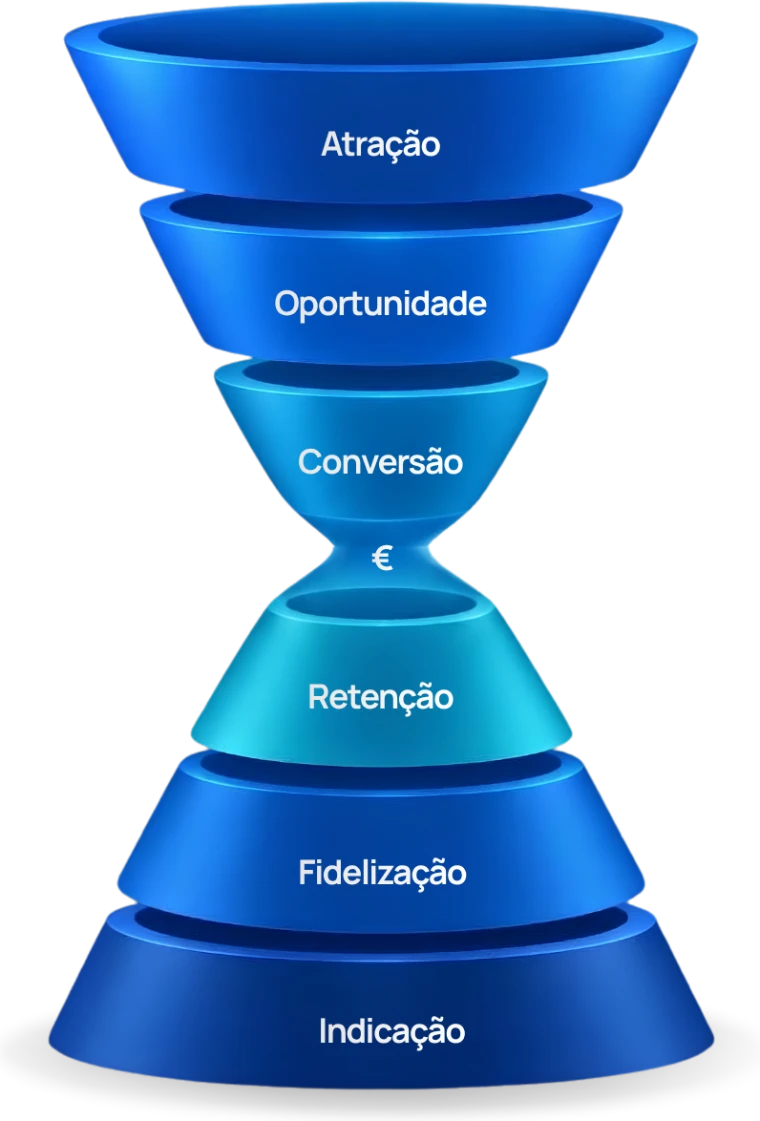
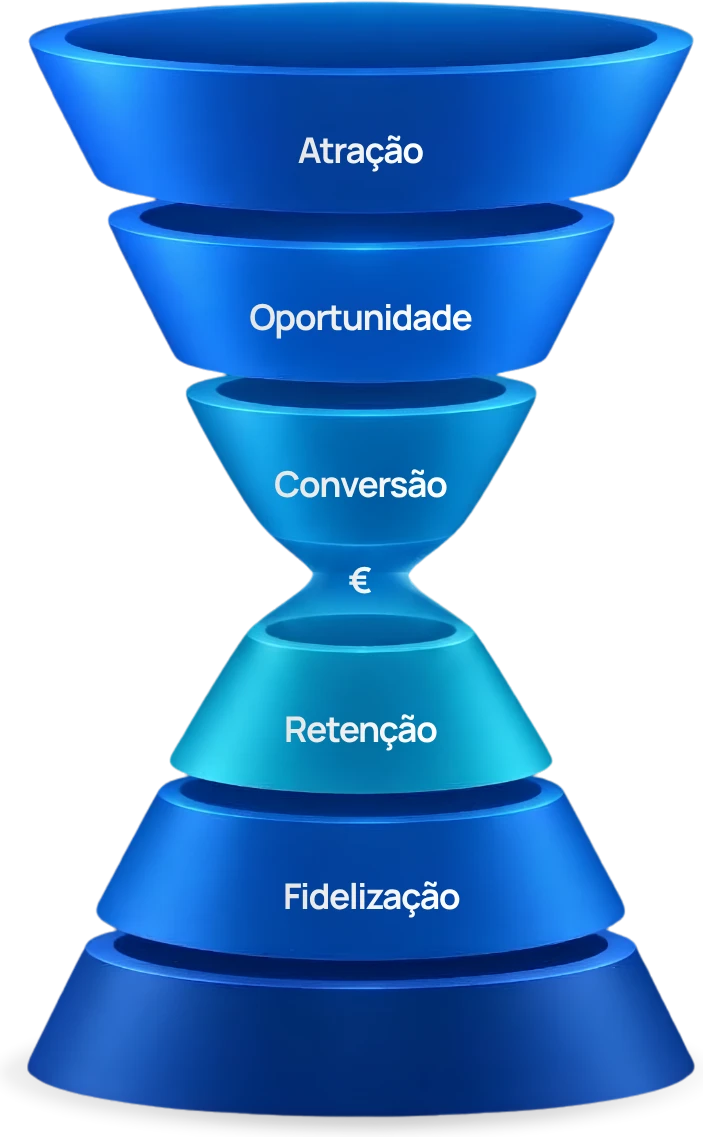
Nova ampulheta e alinhar o título dos testemunhos com os outros
A ampulheta é a nova. Já vinha com fundo transparente: recortada a margem
vazia fica a 703×1137, acima do dobro dos ~340 a que aparece. Em webp com
alfa passa de 770KB a 73KB. Os atributos width/height acompanham a nova
proporção, para não haver salto de layout.

O título dos testemunhos estava fora do padrão — escrevi-o de raiz quando
acrescentei a secção. Tinha peso 400 contra os 600 dos outros, -.035em de
espaçamento contra -.06em, e 3,1vw contra 2,8vw, o que o fazia maior do
que os restantes entre os 1024 e os 1366px. Passa a ter a mesma receita.

Claude-Session: https://claude.ai/code/session_01Mu33bMyEqagxHRUAWVWLMU

Changed region(s): [[0.0299, 0.0, 0.9858, 0.9991], [0.4182, 0.9054, 0.6273, 0.9367], [0.1792, 0.7181, 0.2091, 0.7493]]

diff --git a/lp-v2/index.html b/lp-v2/index.html
@@ -2409,12 +2409,16 @@ a{text-decoration:none;color:inherit}
 .tst-inner{ max-width:1120px;margin-inline:auto;padding-inline:clamp(1.25rem,4vw,2.5rem); }
 .tst-head{ text-align:center;margin-bottom:clamp(2.5rem,5vw,4rem); }
 .tst-section .quem-eyebrow{ color:#005da9; }
+/* Escrevi este titulo de raiz quando acrescentei a seccao, e ficou fora
+   do padrao: peso 400 contra 600, -.035em de espacamento contra -.06em, e
+   3,1vw contra 2,8vw — o que o fazia maior do que os outros entre os 1024
+   e os 1366. Passa a ter a mesma receita dos restantes. */
 .tst-h2{
   font-family:'Archia',sans-serif;
-  font-size:clamp(26px,3.1vw,40px);
-  font-weight:400;
-  letter-spacing:-.035em;
-  line-height:1.14;
+  font-size:clamp(22px,2.8vw,40px);
+  font-weight:600;
+  letter-spacing:-.06em;
+  line-height:1.15;
   width:var(--medida-titulo);
   margin-inline:calc(50% - var(--medida-titulo) / 2);
   text-wrap:pretty;
@@ -2956,7 +2960,7 @@ a{text-decoration:none;color:inherit}
     </div>
 
     <div class="funil" data-reveal="fade">
-      <figure class="funil-fig"><img class="funil-img" src="img/funil-canva.webp" width="760" height="1121" alt="Funil em ampulheta da Blue Bolt: atração, oportunidade e conversão estreitam até à venda; retenção, fidelização e indicação alargam depois dela" loading="lazy" decoding="async"></figure>
+      <figure class="funil-fig"><img class="funil-img" src="img/funil-canva.webp" width="703" height="1137" alt="Funil em ampulheta da Blue Bolt: atração, oportunidade e conversão estreitam até à venda; retenção, fidelização e indicação alargam depois dela" loading="lazy" decoding="async"></figure>
       <ol class="funil-passos"><li class="passo" style="--i:0;--cor:#1B7BE8"><span class="passo-n">01</span><span class="passo-txt"><strong>Atração</strong>Campanhas em Meta e Google Ads que trazem o perfil certo, não só volume.</span></li><li class="passo" style="--i:1;--cor:#0E86F0"><span class="passo-n">02</span><span class="passo-txt"><strong>Oportunidade</strong>Fluxos de email e WhatsApp que aquecem a lead antes do contacto comercial.</span></li><li class="passo" style="--i:2;--cor:#12A3DE"><span class="passo-n">03</span><span class="passo-txt"><strong>Conversão</strong>Scripts, playbook e CRM para não se perder nenhuma oportunidade pelo caminho.</span></li><li class="passo" style="--i:3;--cor:#1AB9D6"><span class="passo-n">04</span><span class="passo-txt"><strong>Retenção</strong>Acompanhamento depois da venda, para o cliente voltar a comprar.</span></li><li class="passo" style="--i:4;--cor:#0E6FD6"><span class="passo-n">05</span><span class="passo-txt"><strong>Fidelização</strong>Deixa de comparar preços e passa a escolher-nos por hábito.</span></li><li class="passo" style="--i:5;--cor:#0E3E90"><span class="passo-n">06</span><span class="passo-txt"><strong>Indicação</strong>Cada cliente satisfeito traz o próximo, sem custo de aquisição.</span></li></ol>
     </div>
 

diff --git a/lp-v2/build.py b/lp-v2/build.py
@@ -434,12 +434,16 @@ SECOES_CSS = """
 .tst-inner{ max-width:1120px;margin-inline:auto;padding-inline:clamp(1.25rem,4vw,2.5rem); }
 .tst-head{ text-align:center;margin-bottom:clamp(2.5rem,5vw,4rem); }
 .tst-section .quem-eyebrow{ color:#005da9; }
+/* Escrevi este titulo de raiz quando acrescentei a seccao, e ficou fora
+   do padrao: peso 400 contra 600, -.035em de espacamento contra -.06em, e
+   3,1vw contra 2,8vw — o que o fazia maior do que os outros entre os 1024
+   e os 1366. Passa a ter a mesma receita dos restantes. */
 .tst-h2{
   font-family:'Archia',sans-serif;
-  font-size:clamp(26px,3.1vw,40px);
-  font-weight:400;
-  letter-spacing:-.035em;
-  line-height:1.14;
+  font-size:clamp(22px,2.8vw,40px);
+  font-weight:600;
+  letter-spacing:-.06em;
+  line-height:1.15;
   width:var(--medida-titulo);
   margin-inline:calc(50% - var(--medida-titulo) / 2);
   text-wrap:pretty;
@@ -897,9 +901,9 @@ SECOES_CSS = """
 # E o desenho da propria Blue Bolt, feito na Canva. Chegou como imagem e
 # como imagem fica — cheguei a redesenha-lo em SVG, mas o pedido foi usar
 # o original. O PNG de 1080x1350 ja vinha com fundo transparente: so foi
-# recortada a margem vazia e reduzido para 760px de largura (o dobro dos
-# ~380 a que aparece, para ficar nitido em ecra retina). Em webp com alfa
-# passa de 721KB a 75KB.
+# recortada a margem vazia. Fica a 703px de largura — acima do dobro dos
+# ~340 a que aparece, o que chega para ecra retina. Em webp com alfa passa
+# de 770KB a 73KB.
 # ══════════════════════════════════════════════════════════════════
 
 # (nome, descricao, cor da fatia no desenho)
@@ -917,7 +921,7 @@ _ARIA = ("Funil em ampulheta da Blue Bolt: atração, oportunidade e conversão 
 
 
 def funil_img():
-    return (f'<img class="funil-img" src="img/funil-canva.webp" width="760" height="1121" '
+    return (f'<img class="funil-img" src="img/funil-canva.webp" width="703" height="1137" '
             f'alt="{_ARIA}" loading="lazy" decoding="async">')
 
 
